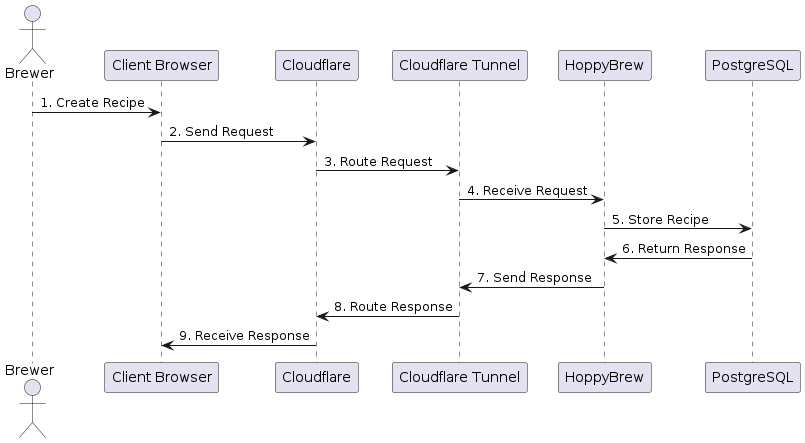
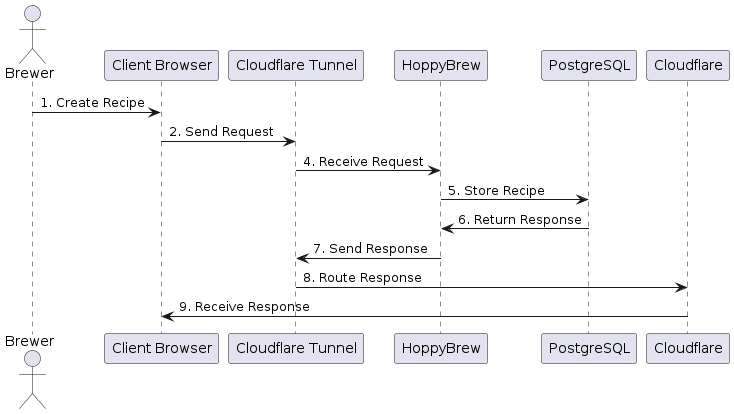
Update

diff --git a/documents/01-Conception-Phase/00-HoppyBrew.md b/documents/01-Conception-Phase/00-HoppyBrew.md
@@ -714,14 +714,12 @@ User interactions with the system are depicted in the following sequence diagram
 
 actor Brewer as Brewer
 participant "Client Browser" as ClientBrowser
-participant "Cloudflare" as Cloudflare
 participant "Cloudflare Tunnel" as CloudflareTunnel
 participant "HoppyBrew" as HoppyBrew
 participant "PostgreSQL" as PostgreSQL
 
 Brewer -> ClientBrowser : 1. Create Recipe
-ClientBrowser -> Cloudflare : 2. Send Request
-Cloudflare -> CloudflareTunnel : 3. Route Request
+ClientBrowser -> CloudflareTunnel : 2. Send Request
 CloudflareTunnel -> HoppyBrew : 4. Receive Request
 HoppyBrew -> PostgreSQL : 5. Store Recipe
 PostgreSQL -> HoppyBrew : 6. Return Response

diff --git a/documents/01-Conception-Phase/chapters/06_Runtime_View.md b/documents/01-Conception-Phase/chapters/06_Runtime_View.md
@@ -10,14 +10,12 @@ User interactions with the system are depicted in the following sequence diagram
 
 actor Brewer as Brewer
 participant "Client Browser" as ClientBrowser
-participant "Cloudflare" as Cloudflare
 participant "Cloudflare Tunnel" as CloudflareTunnel
 participant "HoppyBrew" as HoppyBrew
 participant "PostgreSQL" as PostgreSQL
 
 Brewer -> ClientBrowser : 1. Create Recipe
-ClientBrowser -> Cloudflare : 2. Send Request
-Cloudflare -> CloudflareTunnel : 3. Route Request
+ClientBrowser -> CloudflareTunnel : 2. Send Request
 CloudflareTunnel -> HoppyBrew : 4. Receive Request
 HoppyBrew -> PostgreSQL : 5. Store Recipe
 PostgreSQL -> HoppyBrew : 6. Return Response
